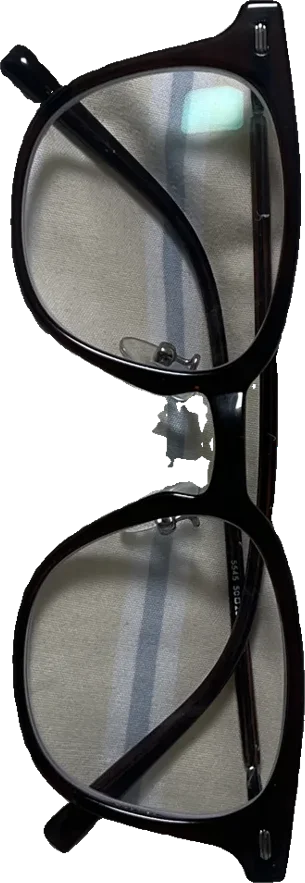
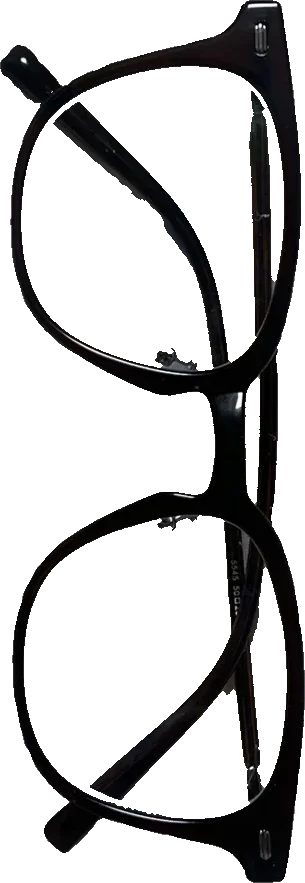
fix: 11-18 안경 렌즈 비움

diff --git a/home.html b/home.html
@@ -14,7 +14,7 @@
         h=d.documentElement,t=setTimeout(function(){h.className=h.className.replace(/\bwf-loading\b/g,"")+" wf-inactive";},config.scriptTimeout),tk=d.createElement("script"),f=false,s=d.getElementsByTagName("script")[0],a;h.className+=" wf-loading";tk.src='https://use.typekit.net/'+config.kitId+'.js';tk.async=true;tk.onload=tk.onreadystatechange=function(){a=this.readyState;if(f||a&&a!="complete"&&a!="loaded")return;f=true;clearTimeout(t);try{Typekit.load(config)}catch(e){}};s.parentNode.insertBefore(tk,s)
       })(document);
     </script>
-<link rel="stylesheet" href="style.css?v=11252143">
+<link rel="stylesheet" href="style.css?v=11252156">
 </head>
 <body>
 <div class="backdrop" style="opacity:.15" aria-hidden="true"></div>
@@ -28,12 +28,12 @@
 <main class="floor" aria-label="상품 바닥"></main>
 <footer><button class="sound" type="button" aria-pressed="false">SOUND OFF</button></footer>
 
-<script src="data.js?v=11252143"></script>
-<script src="about.js?v=11252143" defer></script>
-<script src="sound.js?v=11252143"></script>
-<script src="floor.js?v=11252143"></script>
-<script src="stage.js?v=11252143"></script>
-<script src="detail.js?v=11252143" defer></script>
+<script src="data.js?v=11252156"></script>
+<script src="about.js?v=11252156" defer></script>
+<script src="sound.js?v=11252156"></script>
+<script src="floor.js?v=11252156"></script>
+<script src="stage.js?v=11252156"></script>
+<script src="detail.js?v=11252156" defer></script>
 <script>
 const PARTS = ['모자', '상의', '하의', '신발', '아이템'];
 const PIECE_SCALE = 1.25; // 옷 크기 배율

diff --git a/data.js b/data.js
@@ -507,6 +507,19 @@ const PIECES = [
   "fill": 0.753
  },
  {
+  "id": "11-18/bottom_seobin",
+  "src": "pieces/11-18/bottom_seobin.webp",
+  "part": "하의",
+  "day": "11-18",
+  "person": "서빈",
+  "tone": {
+   "L": 24
+  },
+  "rot": 0,
+  "ar": 1.178,
+  "fill": 0.774
+ },
+ {
   "id": "11-18/hat_harin",
   "src": "pieces/11-18/hat_harin.webp",
   "part": "모자",
@@ -520,17 +533,17 @@ const PIECES = [
   "fill": 0.563
  },
  {
-  "id": "11-18/top_hayeon",
-  "src": "pieces/11-18/top_hayeon.webp",
-  "part": "상의",
+  "id": "11-18/item_mulgyeol",
+  "src": "pieces/11-18/item_mulgyeol.webp",
+  "part": "아이템",
   "day": "11-18",
-  "person": "하연",
+  "person": "물결",
   "tone": {
-   "L": 53
+   "L": 6
   },
   "rot": 0,
-  "ar": 0.7,
-  "fill": 0.595
+  "ar": 0.345,
+  "fill": 0.285
  },
  {
   "id": "11-18/shoes_seunghyun",
@@ -546,30 +559,17 @@ const PIECES = [
   "fill": 0.669
  },
  {
-  "id": "11-18/item_mulgyeol",
-  "src": "pieces/11-18/item_mulgyeol.webp",
-  "part": "아이템",
+  "id": "11-18/top_hayeon",
+  "src": "pieces/11-18/top_hayeon.webp",
+  "part": "상의",
   "day": "11-18",
-  "person": "물결",
+  "person": "하연",
   "tone": {
-   "L": 31
+   "L": 53
   },
   "rot": 0,
-  "ar": 0.345,
-  "fill": 0.71
- },
- {
-  "id": "11-18/bottom_seobin",
-  "src": "pieces/11-18/bottom_seobin.webp",
-  "part": "하의",
-  "day": "11-18",
-  "person": "서빈",
-  "tone": {
-   "L": 24
-  },
-  "rot": 0,
-  "ar": 1.178,
-  "fill": 0.774
+  "ar": 0.7,
+  "fill": 0.595
  },
  {
   "id": "11-19/bottom_hayeon",

diff --git a/game.html b/game.html
@@ -14,7 +14,7 @@
         h=d.documentElement,t=setTimeout(function(){h.className=h.className.replace(/\bwf-loading\b/g,"")+" wf-inactive";},config.scriptTimeout),tk=d.createElement("script"),f=false,s=d.getElementsByTagName("script")[0],a;h.className+=" wf-loading";tk.src='https://use.typekit.net/'+config.kitId+'.js';tk.async=true;tk.onload=tk.onreadystatechange=function(){a=this.readyState;if(f||a&&a!="complete"&&a!="loaded")return;f=true;clearTimeout(t);try{Typekit.load(config)}catch(e){}};s.parentNode.insertBefore(tk,s)
       })(document);
     </script>
-<link rel="stylesheet" href="style.css?v=11252143">
+<link rel="stylesheet" href="style.css?v=11252156">
 <style>
   body { height: auto; min-height: 100dvh; overflow: auto; }
   .game {
@@ -69,11 +69,11 @@
   </section>
 </main>
 
-<script src="data.js?v=11252143"></script>
-<script src="about.js?v=11252143" defer></script>
-<script src="sound.js?v=11252143"></script>
-<script src="floor.js?v=11252143"></script>
-<script src="stage.js?v=11252143"></script>
+<script src="data.js?v=11252156"></script>
+<script src="about.js?v=11252156" defer></script>
+<script src="sound.js?v=11252156"></script>
+<script src="floor.js?v=11252156"></script>
+<script src="stage.js?v=11252156"></script>
 <script>
 Floor.backdrop(document.querySelector('.backdrop'));
 

diff --git a/index.html b/index.html
@@ -14,7 +14,7 @@
         h=d.documentElement,t=setTimeout(function(){h.className=h.className.replace(/\bwf-loading\b/g,"")+" wf-inactive";},config.scriptTimeout),tk=d.createElement("script"),f=false,s=d.getElementsByTagName("script")[0],a;h.className+=" wf-loading";tk.src='https://use.typekit.net/'+config.kitId+'.js';tk.async=true;tk.onload=tk.onreadystatechange=function(){a=this.readyState;if(f||a&&a!="complete"&&a!="loaded")return;f=true;clearTimeout(t);try{Typekit.load(config)}catch(e){}};s.parentNode.insertBefore(tk,s)
       })(document);
     </script>
-<link rel="stylesheet" href="style.css?v=11252143">
+<link rel="stylesheet" href="style.css?v=11252156">
 <style>
   /* 앞면: 원색 조각 바닥 + 그 위에 떨어진 151번째 조각, 영수증 */
   .cover { flex: 1; position: relative; overflow: hidden; }
@@ -62,9 +62,9 @@
 </main>
 <button class="sound cover-sound" type="button" aria-pressed="false">SOUND OFF</button>
 
-<script src="data.js?v=11252143"></script>
-<script src="floor.js?v=11252143"></script>
-<script src="sound.js?v=11252143"></script>
-<script src="cover.js?v=11252143"></script>
+<script src="data.js?v=11252156"></script>
+<script src="floor.js?v=11252156"></script>
+<script src="sound.js?v=11252156"></script>
+<script src="cover.js?v=11252156"></script>
 </body>
 </html>
